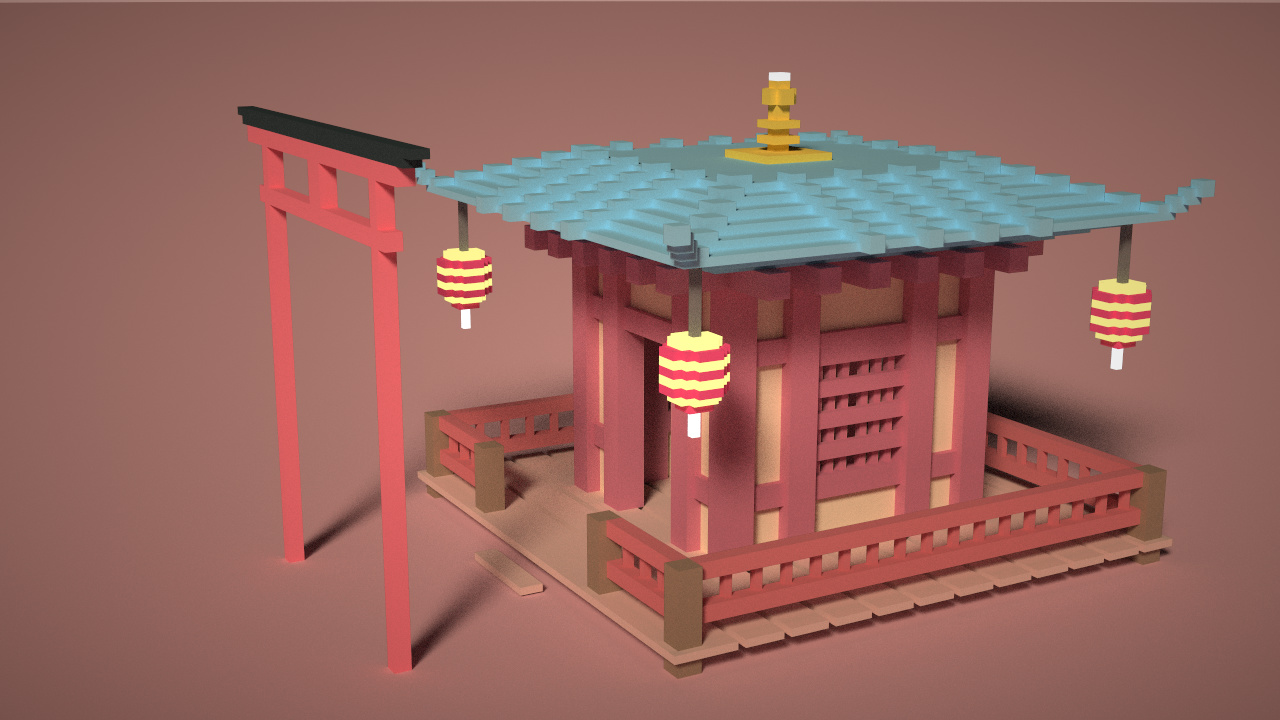
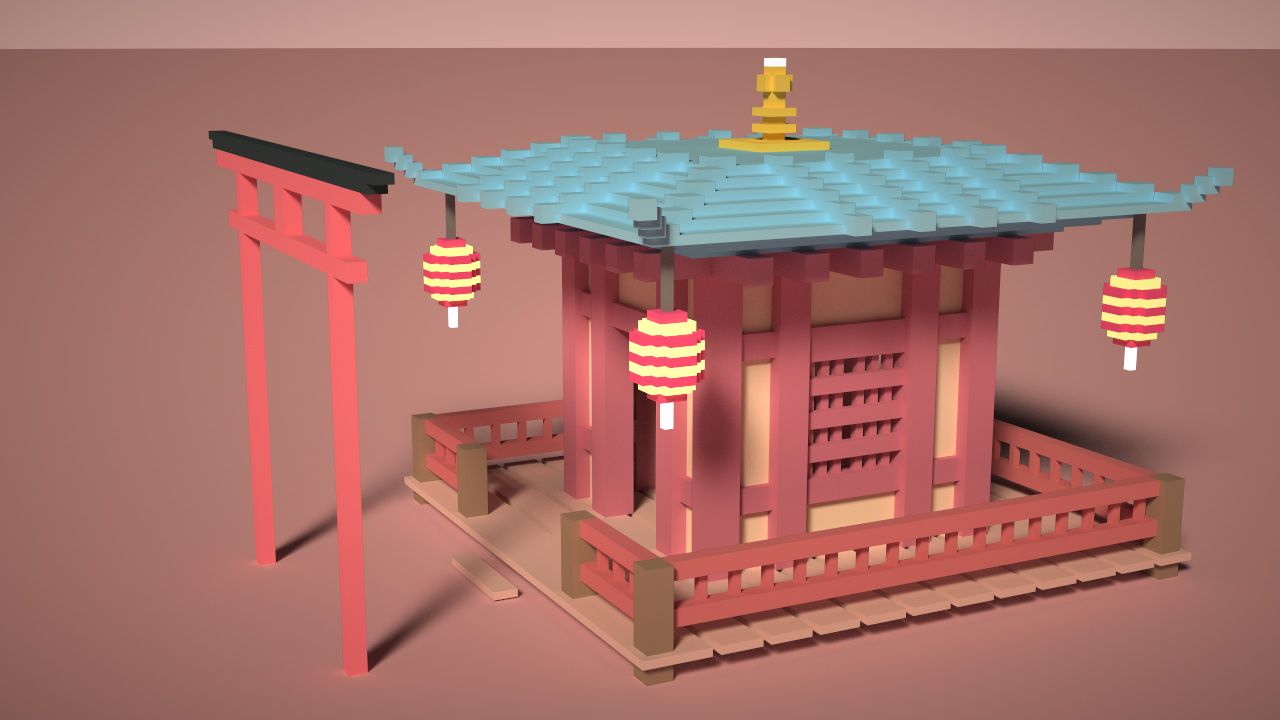
Fix the lamp

diff --git a/main.py b/main.py
@@ -2,7 +2,7 @@ from scene import Scene
 import taichi as ti
 from taichi.math import *
 
-scene = Scene(voxel_edges=0, exposure=1.0);scene.set_floor(-0.05, (0.957, 0.586, 0.664))
+scene = Scene(voxel_edges=0, exposure=1.2);scene.set_floor(-0.05, (0.957, 0.586, 0.664))
 scene.set_background_color((0.942, 0.578, 0.512));scene.set_directional_light((1, 1, 1), 0.2, (1, 0.8, 0.6))
 
 @ti.func
@@ -13,7 +13,7 @@ def set_blocks(st, ed, kd, color):
 @ti.func
 def set_lamp(x,y,z):
     col_pil3,col_s,col_l=vec3(0.211,0.211,0.211),vec3(0.793,0.105,0.270),vec3(0.980,0.883,0.316)
-    set_blocks(vec3(x,y-8,z),vec3(x+1,y,z+1),1,col_pil3);set_blocks(vec3(x-1,y-9,z-1),vec3(x+2,y-8,z+2),1,col_s)
+    set_blocks(vec3(x,y-7,z),vec3(x+1,y,z+1),1,col_pil3);set_blocks(vec3(x-1,y-8,z-1),vec3(x+2,y-7,z+2),1,col_s)
     set_blocks(vec3(x-2,y-9,z-1),vec3(x+3,y-8,z+2),2,col_l);set_blocks(vec3(x-1,y-9,z-2),vec3(x+2,y-8,z+3),2,col_l)
     set_blocks(vec3(x-3,y-14,z-1),vec3(x+4,y-9,z+2),1,col_s);set_blocks(vec3(x-1,y-14,z-3),vec3(x+2,y-9,z+4),1,col_s)
     set_blocks(vec3(x-2,y-14,z-2),vec3(x+3,y-9,z+3),1,col_s);set_blocks(vec3(x-3,y-11,z-1),vec3(x+4,y-10,z+2),2,col_l)
@@ -82,10 +82,10 @@ def initialize_voxels():
     set_blocks(vec3(-2,54,-1),vec3(2,56,1),1,col_top);set_blocks(vec3(-1,54,-2),vec3(1,56,2),1,col_top)
     set_lamp(31,41,31);set_lamp(-31,41,31);set_lamp(31,41,-31);set_lamp(-31,41,-31)
     col_torii,col_black=vec3(0.938,0.254,0.332),vec3(0.043,0.063,0.074)
-    set_blocks(vec3(-20,-4,60),vec3(-18,50,62),1,col_torii);set_blocks(vec3(18,-4,60),vec3(20,50,62),1,col_torii)
-    set_blocks(vec3(-22,43,60),vec3(22,45,62),1,col_torii);set_blocks(vec3(-26,50,60),vec3(26,52,62),1,col_torii)
-    set_blocks(vec3(-28,52,60),vec3(28,53,62),1,col_black);set_blocks(vec3(-30,53,60),vec3(30,54,62),1,col_black)
-    set_blocks(vec3(-2,45,60),vec3(2,50,62),1,col_torii)
+    set_blocks(vec3(-20,-4,60),vec3(-18,45,62),1,col_torii);set_blocks(vec3(18,-4,60),vec3(20,45,62),1,col_torii)
+    set_blocks(vec3(-25,38,60),vec3(25,40,62),1,col_torii);set_blocks(vec3(-30,45,60),vec3(30,47,62),1,col_torii)
+    set_blocks(vec3(-32,47,60),vec3(32,48,62),1,col_black);set_blocks(vec3(-34,48,60),vec3(34,49,62),1,col_black)
+    set_blocks(vec3(-2,40,60),vec3(2,45,62),1,col_torii)
 
 initialize_voxels()
 
